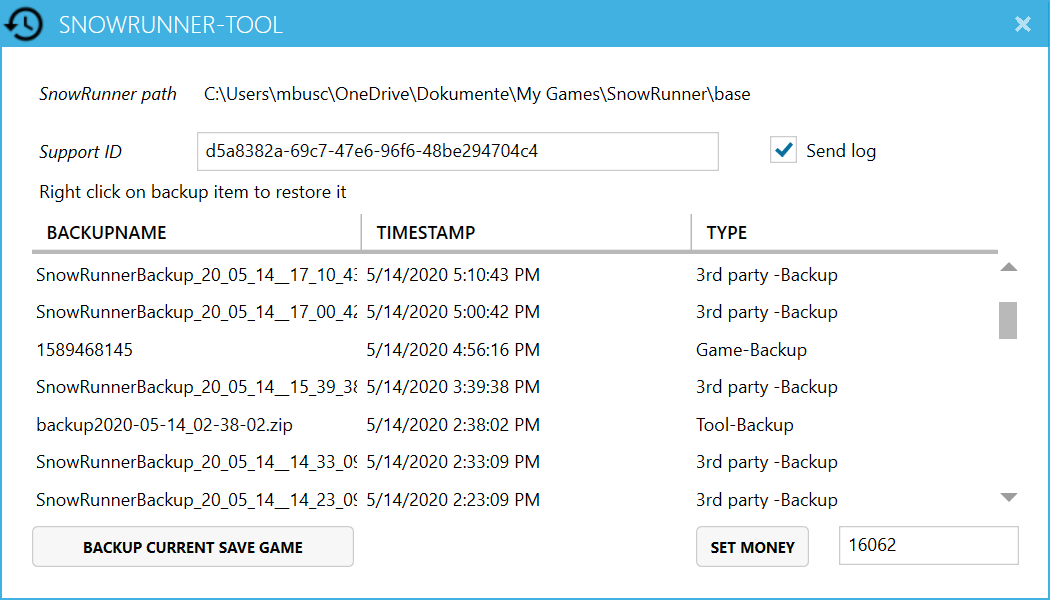
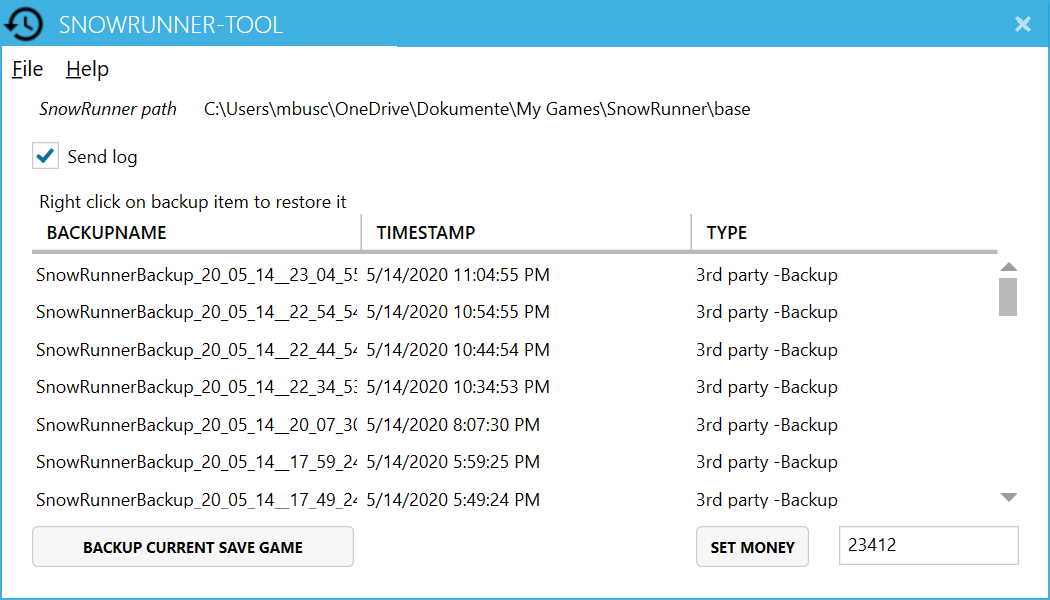
Add images

diff --git a/SnowRunner-Tool/MainWindow.xaml b/SnowRunner-Tool/MainWindow.xaml
@@ -25,10 +25,6 @@
     </Window.CommandBindings>
     <Grid>
 
-        <Grid.ColumnDefinitions>
-            <ColumnDefinition Width="54*"/>
-            <ColumnDefinition Width="89*"/>
-        </Grid.ColumnDefinitions>
         <Menu DockPanel.Dock="Top">
             <MenuItem Header="_File">
                 <MenuItem x:Name="MnReload" 
@@ -47,6 +43,18 @@
                           >
                 </MenuItem>
             </MenuItem>
+            <MenuItem Header="_Settings">
+                <MenuItem x:Name="MnUsageLog"
+                                     Header="_Report usage"
+                                     Click="MnuReportUsage_Click"
+                          >
+                </MenuItem>
+                <MenuItem x:Name="MnEnableLog"
+                                     Header="_Remote logging"
+                                     Click="MnuToggleRemoteLog_Click"
+                          >
+                </MenuItem>
+            </MenuItem>
             <MenuItem Header="_Help">
                 <MenuItem x:Name="MnSupportID" 
                                     Header="_Copy Support-ID"
@@ -59,7 +67,7 @@
                           >
                 </MenuItem>
                 <MenuItem x:Name="SRTLicense" 
-                                    Header="_SR-Tool License"
+                                    Header="_License"
                                     Click="MnuSRTLicense_Click"
                                   >
                 </MenuItem>
@@ -81,17 +89,8 @@
                     Margin="130,28,20,0" 
                     VerticalAlignment="Top" Grid.ColumnSpan="2"
                />
-        <CheckBox x:Name="cbLogging" 
-            Content="Send log" 
-            HorizontalAlignment="Left" 
-            Margin="20,64,0,0" 
-            VerticalAlignment="Top"
-            Click="CheckBox_Click" 
-            IsChecked="True"
-            >
-        </CheckBox>
         <Label Content="Right click on backup item to restore it" 
-                     Margin="20,90,0,240" 
+                     Margin="20,60,0,240" 
                      VerticalAlignment="Top" 
                      HorizontalAlignment="Left" 
                      Width="215"
@@ -99,14 +98,14 @@
         </Label>
 
         <DataGrid x:Name="dgBackups" 
-                          Margin="20,112,20,60" 
+                          Margin="20,100,20,60" 
                           RenderTransformOrigin="-0.429,0.15" 
                           IsReadOnly="True" 
                           SelectedItem="{Binding SelectedRow, Mode=TwoWay}"   
                           HorizontalScrollBarVisibility="Disabled"
                           SelectionMode="Single"
                           ColumnWidth="220" Grid.ColumnSpan="2"
-        >
+            >
             <DataGrid.ContextMenu>
                 <ContextMenu DataContext="{Binding Path=PlacementTarget.Tag, RelativeSource={RelativeSource Self}}" >
                     <MenuItem  Header="Restore this backup" 

diff --git a/SnowRunner-Tool/MainWindow.xaml.cs b/SnowRunner-Tool/MainWindow.xaml.cs
@@ -18,6 +18,10 @@ using System.Linq;
 using System.Windows.Documents;
 using System.Diagnostics;
 using Serilog.Events;
+using System.Windows.Media.Imaging;
+using System.Drawing;
+using System.Drawing.Imaging;
+using System.Windows.Media;
 
 namespace SnowRunner_Tool
 {
@@ -34,9 +38,8 @@ namespace SnowRunner_Tool
         private string @SRSaveGameDir;
         private string guid;
         private readonly string aVersion = System.Reflection.Assembly.GetExecutingAssembly().GetName().Version.ToString();
-        // private string logPrefix;
-        // private MessageTemplate logPrefix;
-        private bool enableRemoteLogging;
+        private bool enableDebugLogging;
+        private bool enableUsageLogging;
 
         public MainWindow()
         {
@@ -52,7 +55,8 @@ namespace SnowRunner_Tool
                        }
                        if (o.EnableLogging == true)
                        {
-                           enableRemoteLogging = true;
+                           enableDebugLogging = true;
+                           enableUsageLogging = true;
                        }
                    });
             guid = genGuid();
@@ -61,9 +65,8 @@ namespace SnowRunner_Tool
             // Initialize Logging
             var myLog = new LoggerConfiguration().MinimumLevel.Debug().WriteTo.Console().CreateLogger();
 
-            if (Properties.Settings.Default.graylog == true || enableRemoteLogging == true)
+            if (Properties.Settings.Default.graylog == true || enableDebugLogging == true)
             {
-                cbLogging.IsChecked = true;
                 myLog = new LoggerConfiguration().MinimumLevel.Debug().WriteTo.Graylog
                                     (new GraylogSinkOptions
                                     {
@@ -71,11 +74,20 @@ namespace SnowRunner_Tool
                                         Port = 12201
                                     }
                                     ).CreateLogger();
+                enableDebugLogging = true;
             }
-            else
+            else if (Properties.Settings.Default.usagelog == true)
             {
-                cbLogging.IsChecked = false;
+                myLog = new LoggerConfiguration().MinimumLevel.Information().WriteTo.Graylog
+                                    (new GraylogSinkOptions
+                                    {
+                                        HostnameOrAddress = "markus.medisoftware.org",
+                                        Port = 12201
+                                    }
+                                    ).CreateLogger();
+                enableUsageLogging = true;
             }
+            
             Log.Logger = myLog;
 
             SRBaseDir = findBaseDirectory();
@@ -95,8 +107,24 @@ namespace SnowRunner_Tool
             dgBackups.AutoGenerateColumns = true;
             readBackups();
             sr_p.Content = SRBaseDir;
-            _ = MetroMessage("Heads Up", "This tool creates backups of your current SnowRunner save game whenever changes are made.\n\n");
+            _ = MetroMessage("Heads Up", "This tool creates backups of your current SnowRunner save game whenever changes are made.");
             txtAmount.Text = getMoney();
+
+            // Get log settings and set icons for Menuitems
+            if (Properties.Settings.Default.graylog == true || enableDebugLogging == true)
+            {
+                MnEnableLog.Icon = new System.Windows.Controls.Image
+                {
+                    Source = new BitmapImage(new Uri("images/baseline_report_black_18dp.png", UriKind.Relative))
+                };
+            }
+            if (Properties.Settings.Default.usagelog == true || enableUsageLogging == true)
+            {
+                MnUsageLog.Icon = new System.Windows.Controls.Image
+                {
+                    Source = new BitmapImage(new Uri("images/baseline_report_off_black_18dp.png", UriKind.Relative))
+                };
+            }
         }
 
 
@@ -373,20 +401,6 @@ namespace SnowRunner_Tool
             return false;
         }
 
-        private void CheckBox_Click(object sender, RoutedEventArgs e)
-        {
-            if (cbLogging.IsChecked == true)
-            {
-                Properties.Settings.Default.graylog = true;
-            }
-            else
-            {
-                Properties.Settings.Default.graylog = false;
-            }
-            Properties.Settings.Default.Save();
-            _ = MetroMessage("Hey trucker", "You have to restart the app to activate the new setting.");
-        }
-
         private void MnuAbout_Click(object sender, RoutedEventArgs e)
         {
             _ = MetroMessage("About", "SnowRunner-Tool\n\nVersion " + aVersion + "\n(c) 2020 elpatron68\nhttps://github.com/elpatron68/SnowRunner-Tool/");
@@ -412,7 +426,7 @@ namespace SnowRunner_Tool
         private void MnuSupportID_Click(object sender, RoutedEventArgs e)
         {
             Clipboard.SetText(guid);
-            _ = MetroMessage("Support ID copied", "Your support ID has been copied to the clipboard. Make sure, \"Send log\" is activated when the problem occured before filing an issue.");
+            _ = MetroMessage("Support ID copied", "Your support ID has been copied to the clipboard. Make sure, \"Send log\" is activated when the problem occured before filing an issue.\n\nSupport ID: " + guid);
         }
 
 
@@ -423,8 +437,56 @@ namespace SnowRunner_Tool
 
         private void MnuReload_Click(object sender, RoutedEventArgs e)
         {
-            readBackups();            
+            readBackups();
+            getMoney();
         }
 
+        private void MnuToggleRemoteLog_Click(object sender, RoutedEventArgs e)
+        {
+            if (Properties.Settings.Default.graylog == false)
+            {
+                enableDebugLogging = true;
+                Properties.Settings.Default.graylog = true;
+                MnEnableLog.Icon = new System.Windows.Controls.Image
+                {
+                    Source = new BitmapImage(new Uri("images/baseline_report_black_18dp.png", UriKind.Relative))
+                };
+            }
+            else
+            {
+                enableDebugLogging = false;
+                Properties.Settings.Default.graylog = false;
+                MnEnableLog.Icon = new System.Windows.Controls.Image
+                {
+                    Source = new BitmapImage(new Uri("images/baseline_report_off_black_18dp.png", UriKind.Relative))
+                };
+            }
+            Properties.Settings.Default.Save();
+            _ = MetroMessage("Hey trucker", "You have to restart the app to activate the new setting.");
+        }
+
+        private void MnuReportUsage_Click(object sender, RoutedEventArgs e)
+        {
+            if (Properties.Settings.Default.usagelog == false)
+            {
+                enableUsageLogging = true;
+                Properties.Settings.Default.usagelog = true;
+                MnUsageLog.Icon = new System.Windows.Controls.Image
+                {
+                    Source = new BitmapImage(new Uri("images/baseline_report_black_18dp.png", UriKind.Relative))
+                };
+            }
+            else
+            {
+                enableUsageLogging = false;
+                Properties.Settings.Default.usagelog = false;
+                MnUsageLog.Icon = new System.Windows.Controls.Image
+                {
+                    Source = new BitmapImage(new Uri("images/baseline_report_off_black_18dp.png", UriKind.Relative))
+                };
+            }
+            Properties.Settings.Default.Save();
+            _ = MetroMessage("Hey trucker", "You have to restart the app to activate the new setting.");
+        }
     }
 }

diff --git a/SnowRunner-Tool/Properties/Settings.Designer.cs b/SnowRunner-Tool/Properties/Settings.Designer.cs
@@ -46,5 +46,17 @@ namespace SnowRunner_Tool.Properties {
                 this["guid"] = value;
             }
         }
+        
+        [global::System.Configuration.UserScopedSettingAttribute()]
+        [global::System.Diagnostics.DebuggerNonUserCodeAttribute()]
+        [global::System.Configuration.DefaultSettingValueAttribute("True")]
+        public bool usagelog {
+            get {
+                return ((bool)(this["usagelog"]));
+            }
+            set {
+                this["usagelog"] = value;
+            }
+        }
     }
 }
